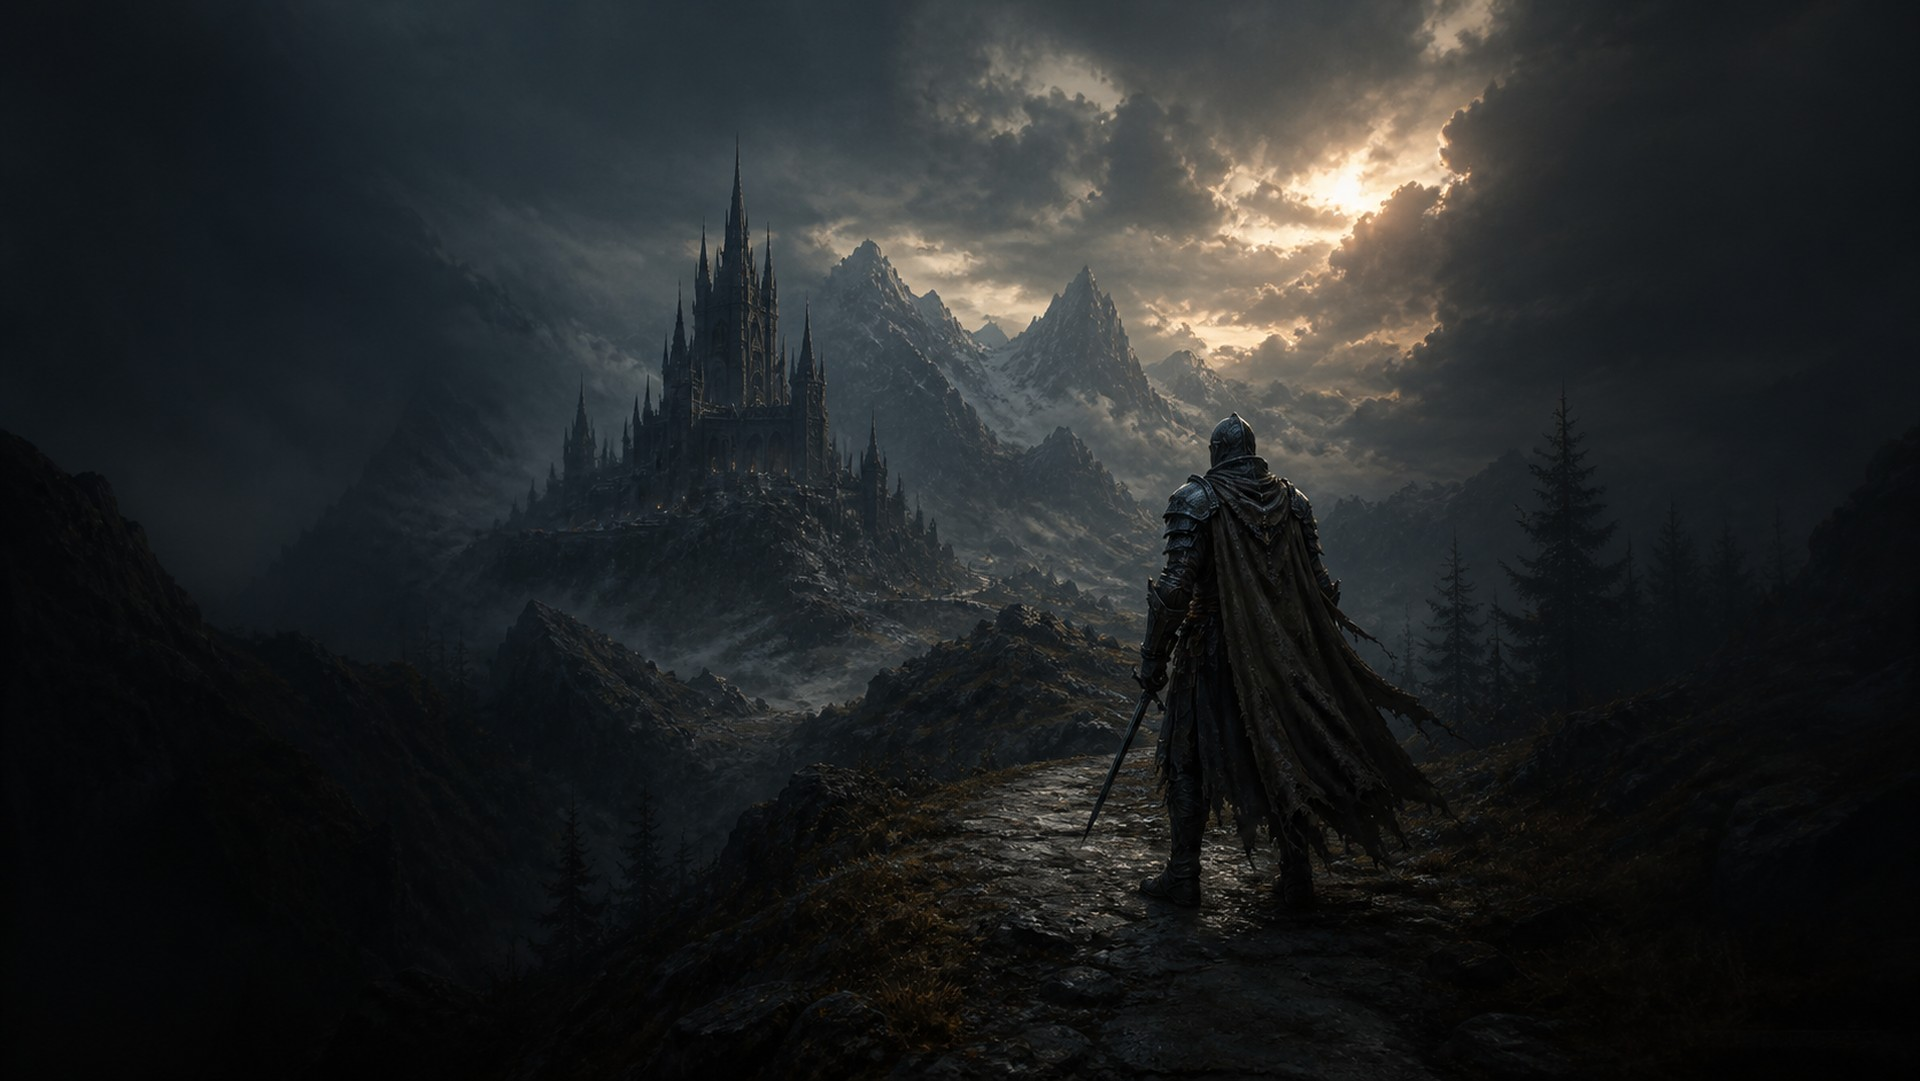
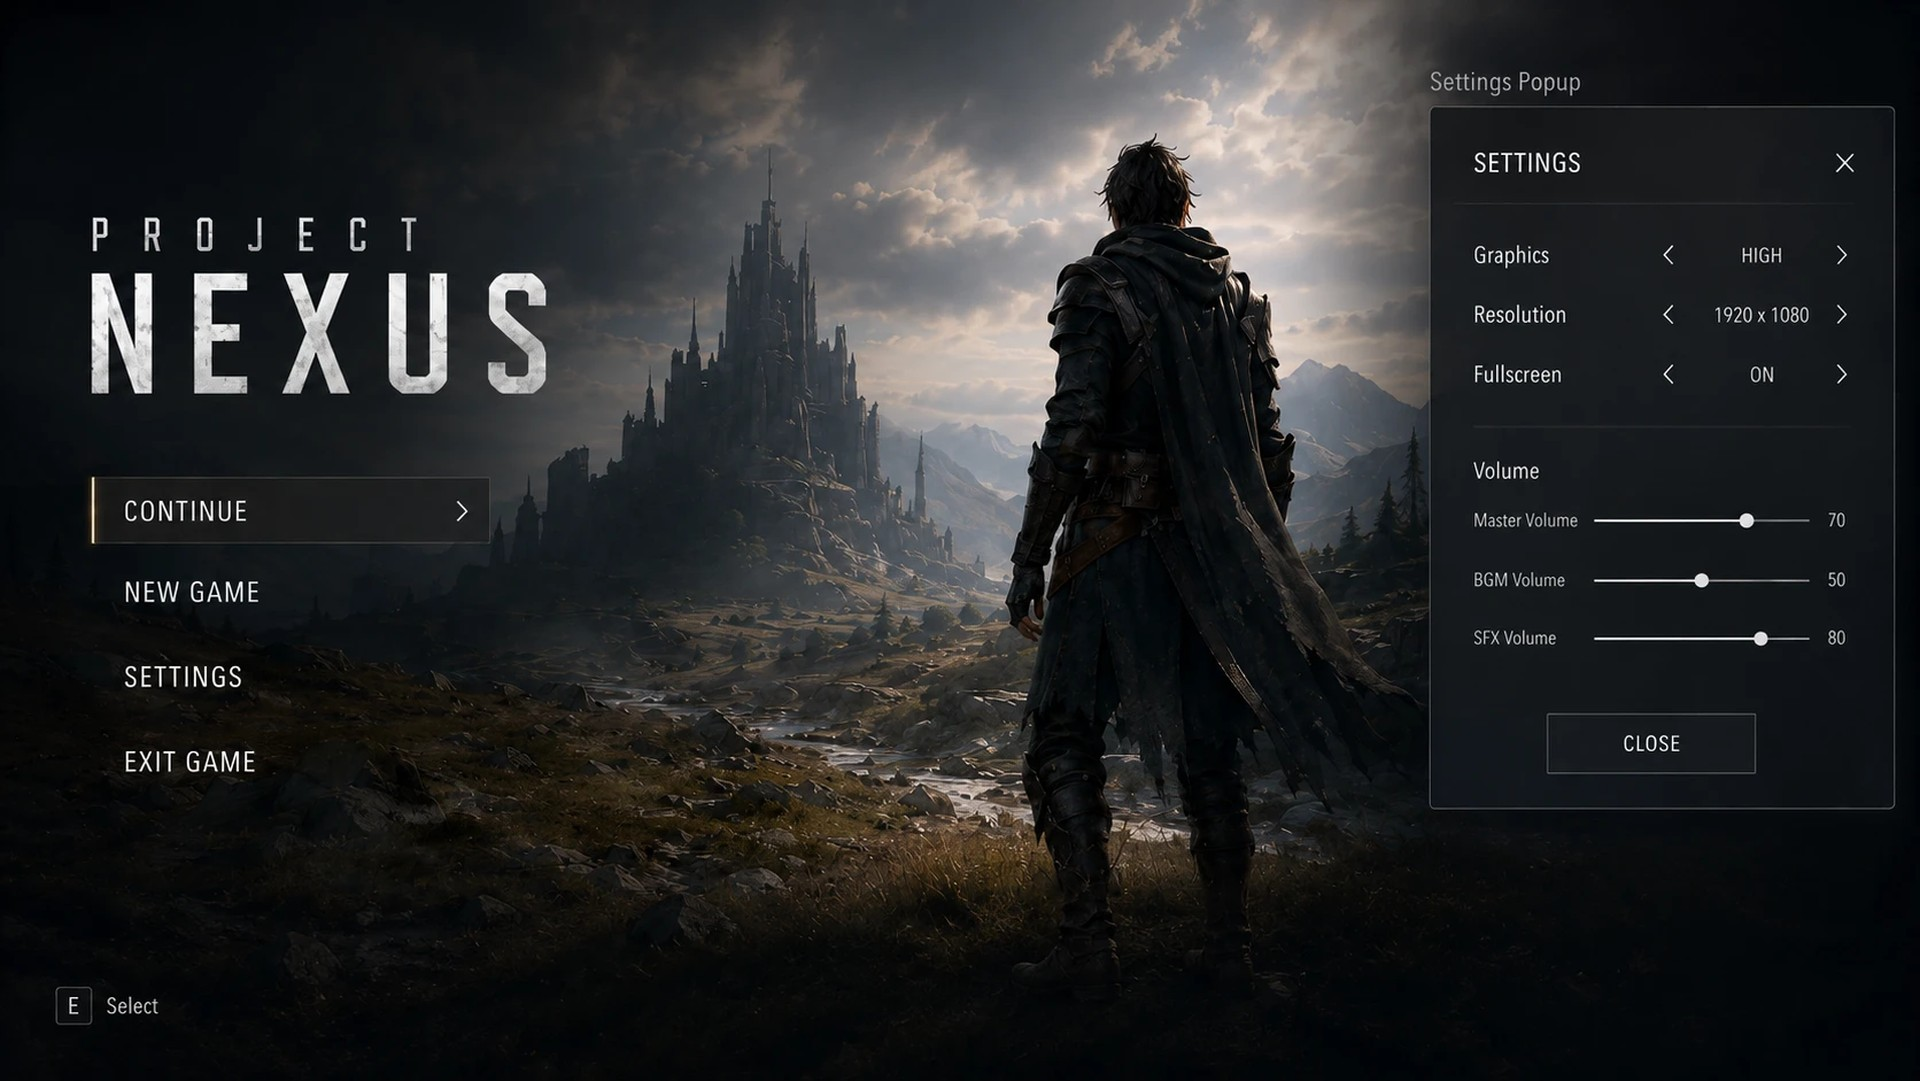
Docs: 참조 이미지를 실제 UI 스크린샷으로 교체
앞선 커밋에는 UI가 얹히기 전 배경 아트가 들어가 있었습니다.
메뉴/설정 팝업이 포함된 원본 참조 스크린샷으로 바꾸고 캡션을 정정했습니다.

diff --git a/README.md b/README.md
@@ -83,12 +83,12 @@ Unreal Engine **5.8** 프로젝트. 에디터를 손으로 조작하는 대신 *
 <td width="50%"><img src="docs/images/25_ui_result.jpg" width="100%"></td>
 </tr>
 <tr>
-<td align="center"><b>입력</b> — 참조로 받은 배경 아트</td>
-<td align="center"><b>출력</b> — UMG 위젯 트리 + 자체 생성한 배경</td>
+<td align="center"><b>입력</b> — 참조 UI 스크린샷 (이 한 장이 전부)</td>
+<td align="center"><b>출력</b> — UMG 위젯 트리로 재구성</td>
 </tr>
 </table>
 
-참조는 이 배경 아트 위에 메뉴·설정 팝업이 얹힌 UI 스크린샷 한 장이었습니다. 화면의 배경도 원본을 가져다 쓴 게 아니라 **같은 구도를 실루엣 페인팅으로 다시 그려 넣은 것**입니다(→ [3.3](#33-텍스처-자체-제작)).
+배경도 참조 이미지를 잘라 쓴 게 아니라 **같은 구도를 실루엣 페인팅으로 다시 그려 넣은 것**입니다(→ [3.3](#33-텍스처-자체-제작)).
 
 *오른쪽 점선은 UMG 디자이너의 위젯 외곽선 표시입니다. 실제 렌더에는 나오지 않습니다.*
 
